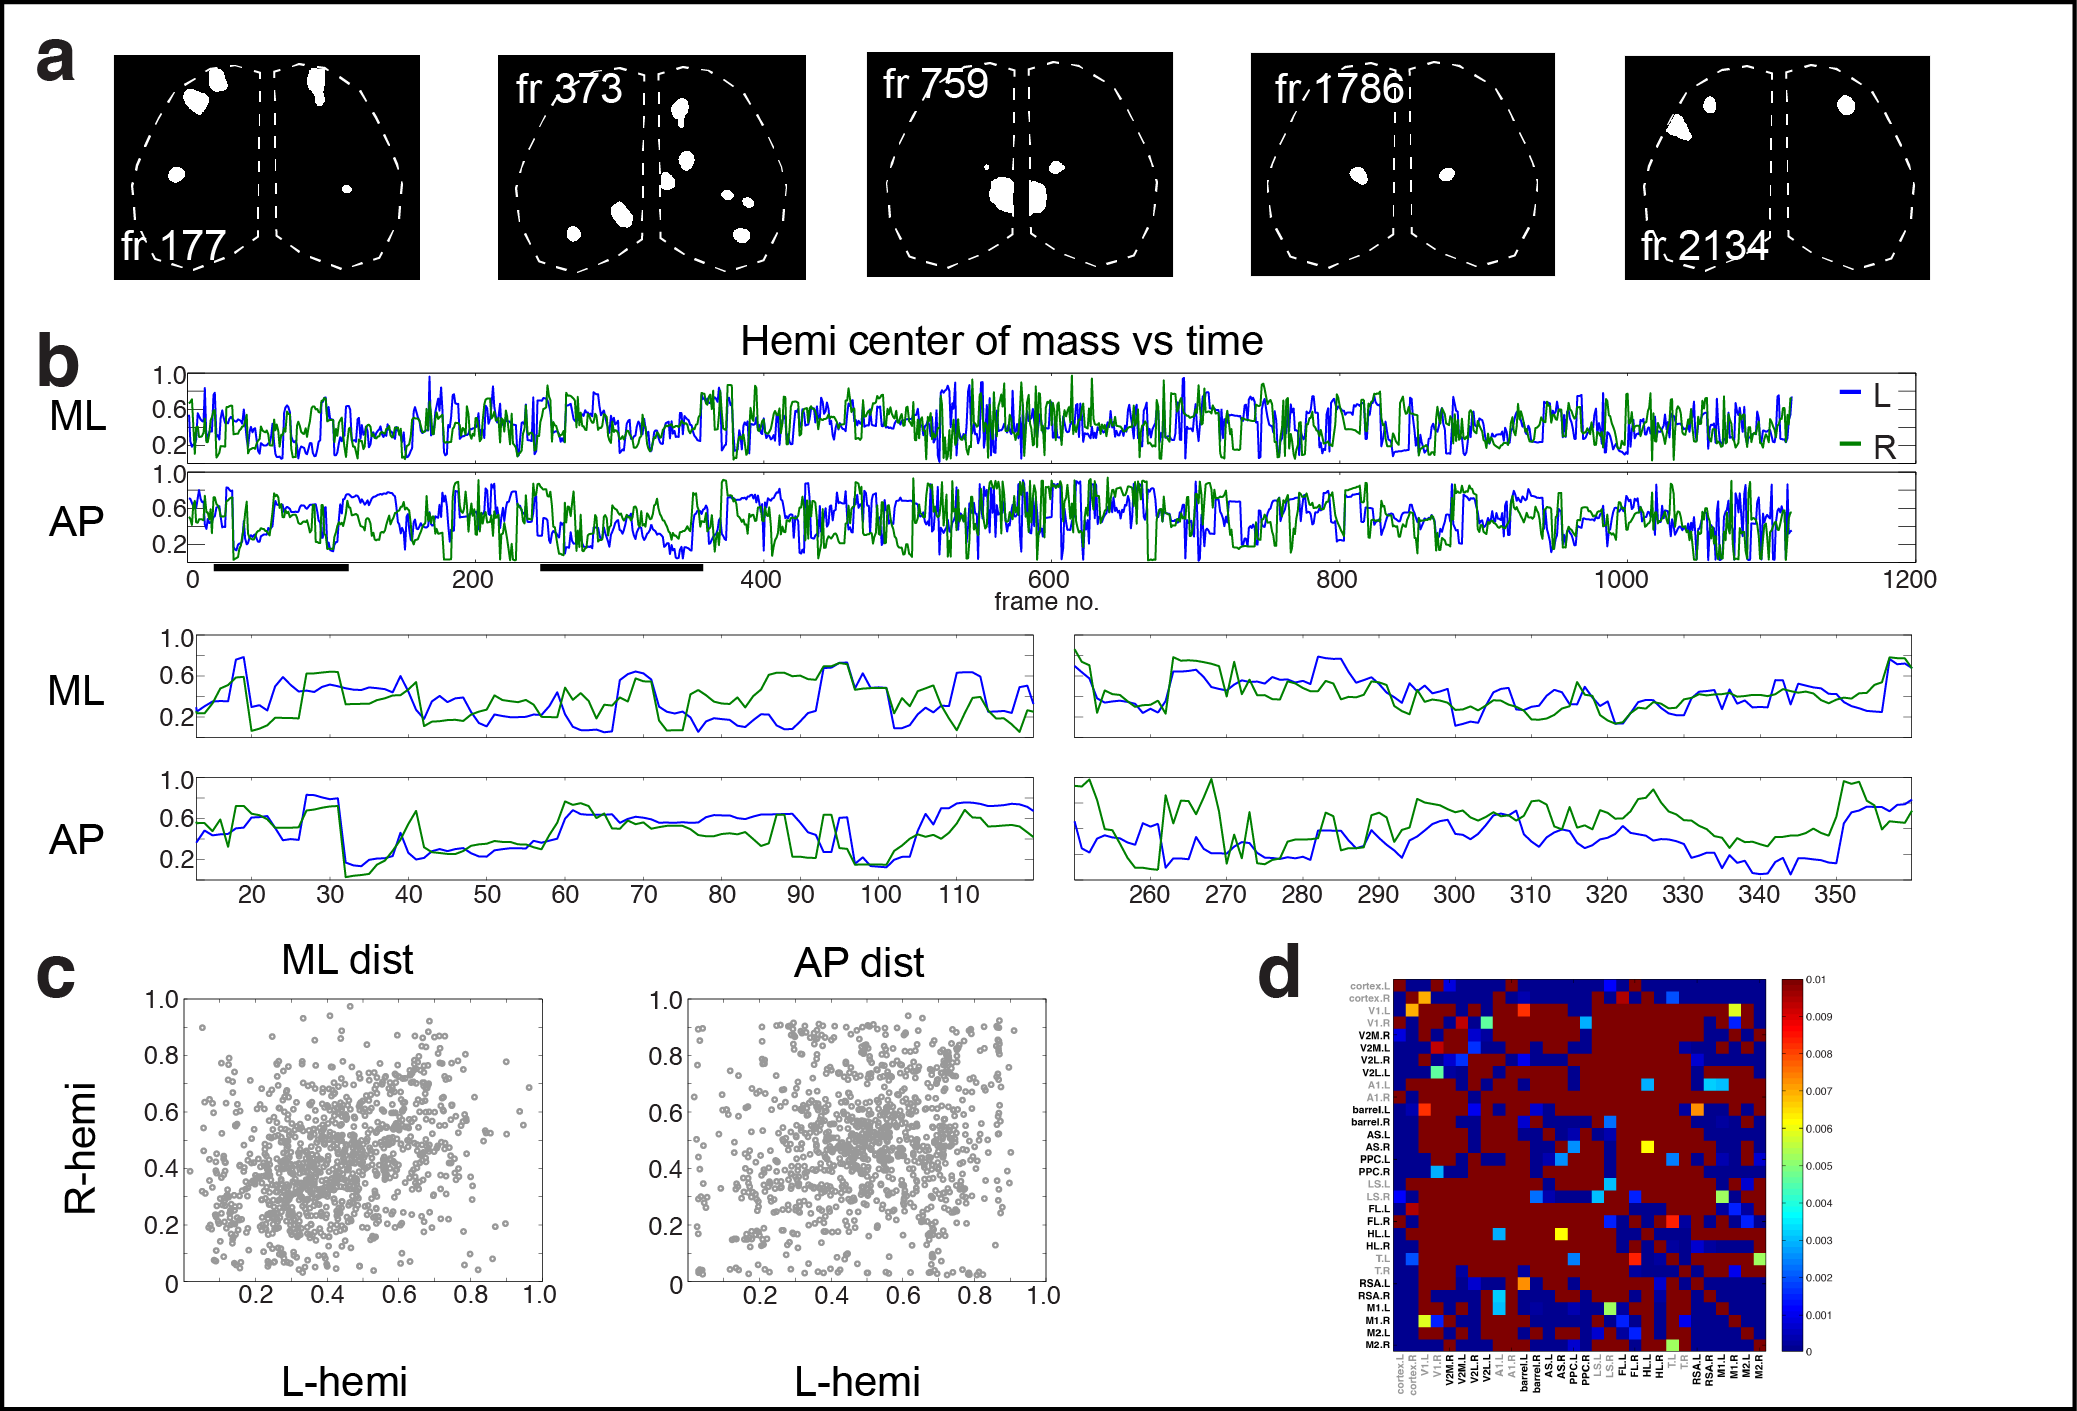
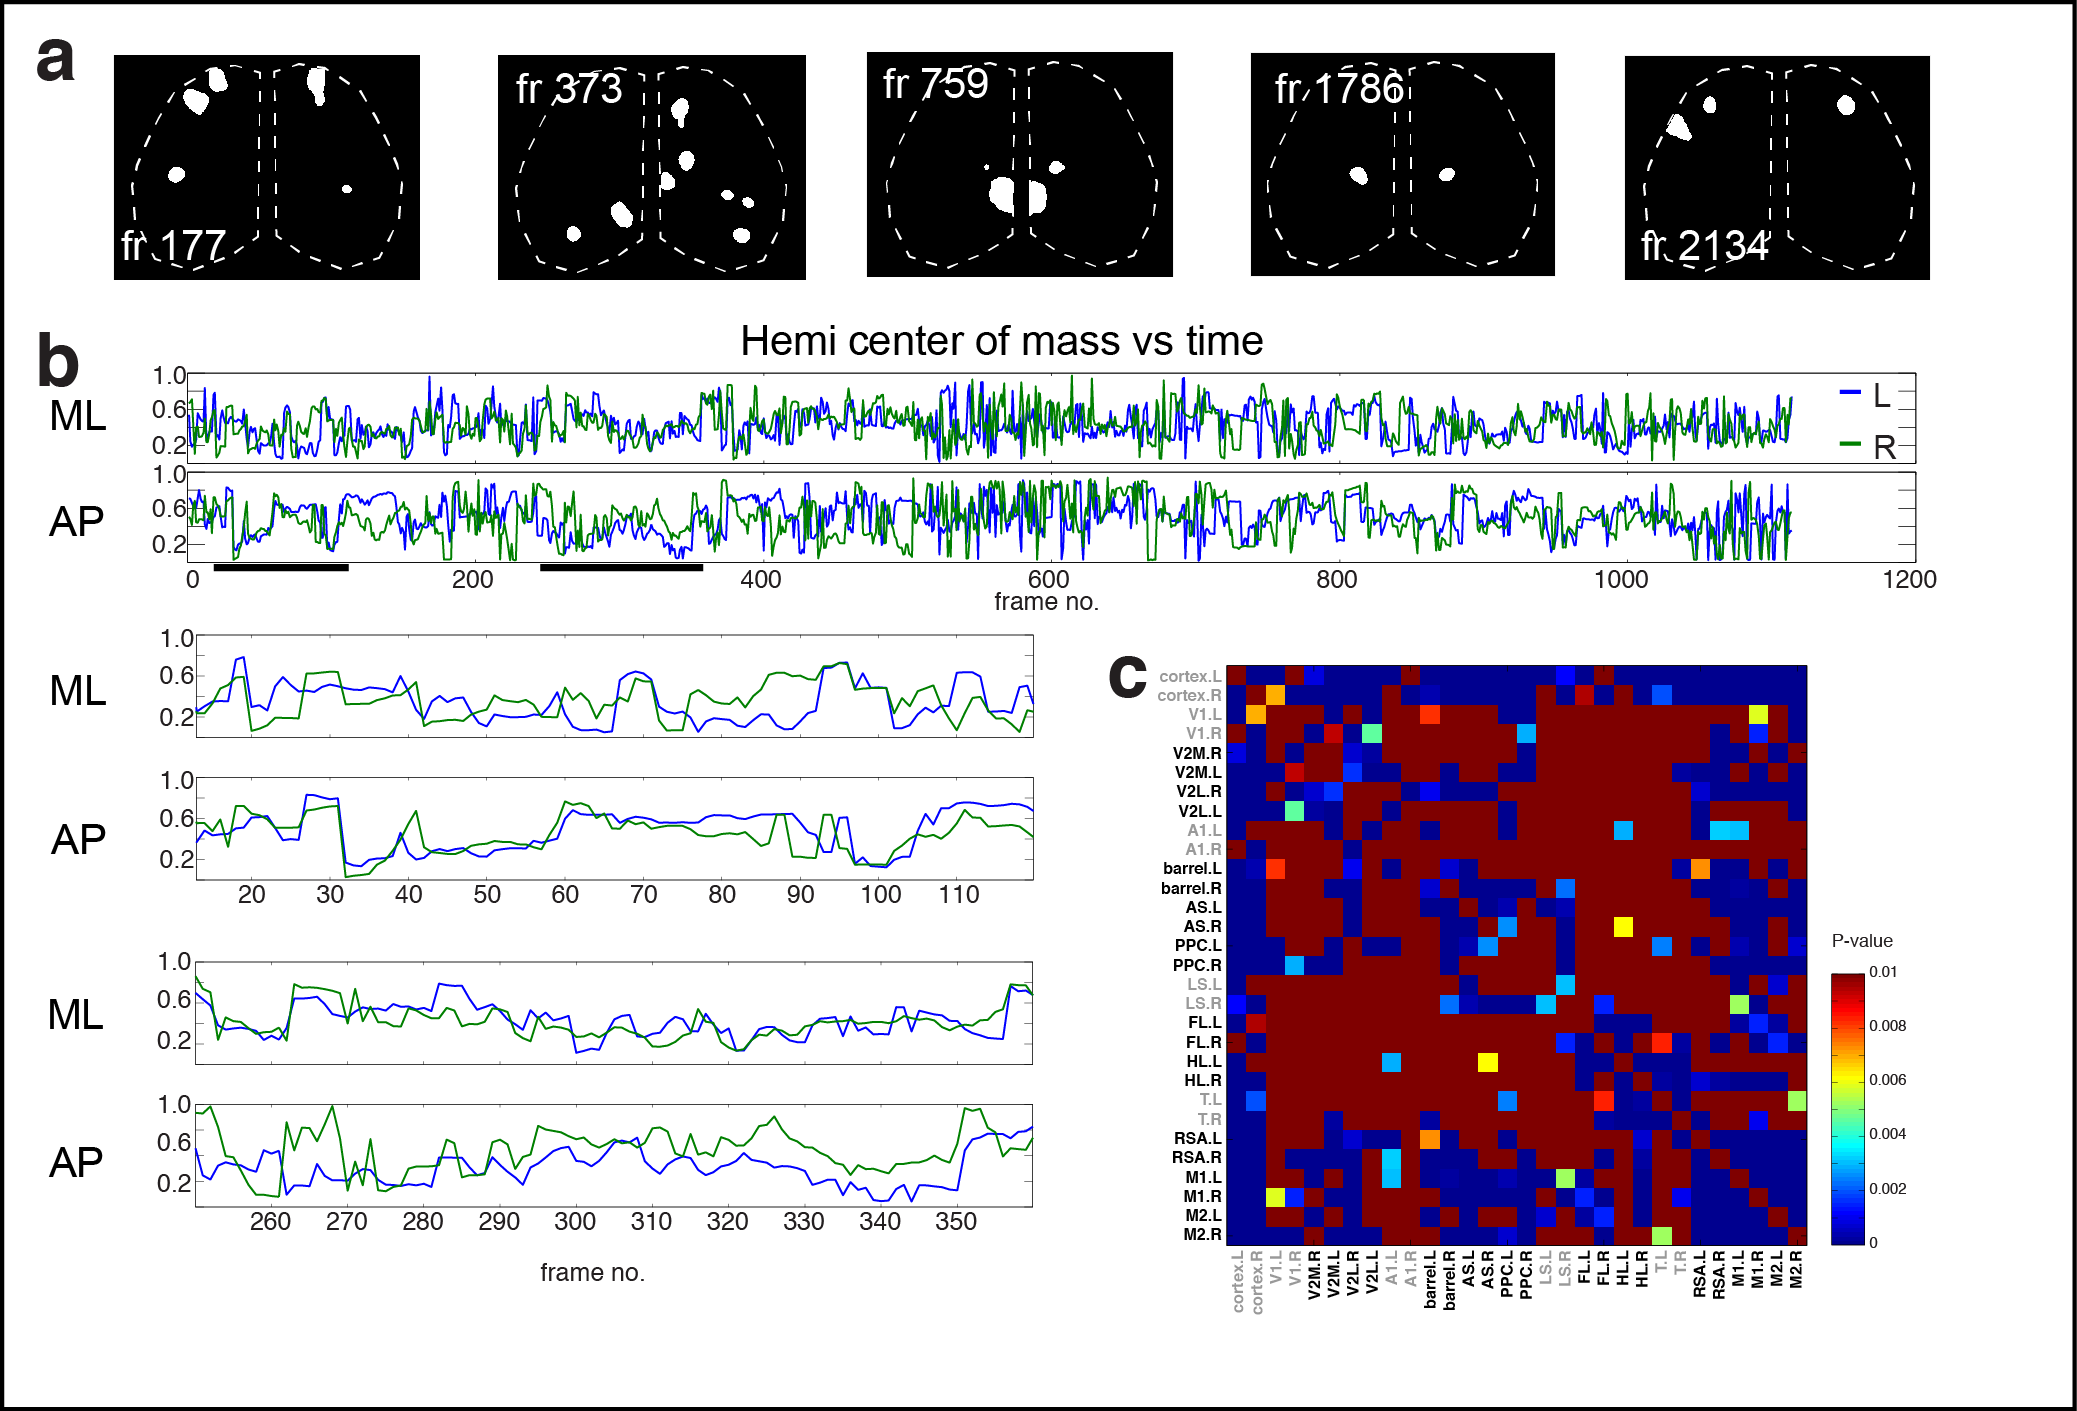
Edited fig3. Made corr matrix bigger and copied straight from orig .ai file.

diff --git a/wholeBrain_main.md b/wholeBrain_main.md
@@ -183,5 +183,5 @@ activefraction hemis AP & ML segment: ![](../figures/Screen_Shot_2013-04-23_at_8
 scatterplot ML Screen_Shot_2013-04-22_at_4.29.28_PM.png
 scatterplot AP 
 
-corr matrix: 120518_07_2013-09-11-225029_d2rcorrMatrix20130912-001431_fig.eps
+corr matrix: 120518_07_2013-09-11-225029_d2rcorrMatrix20130912-001431_fig.ai
 --->
